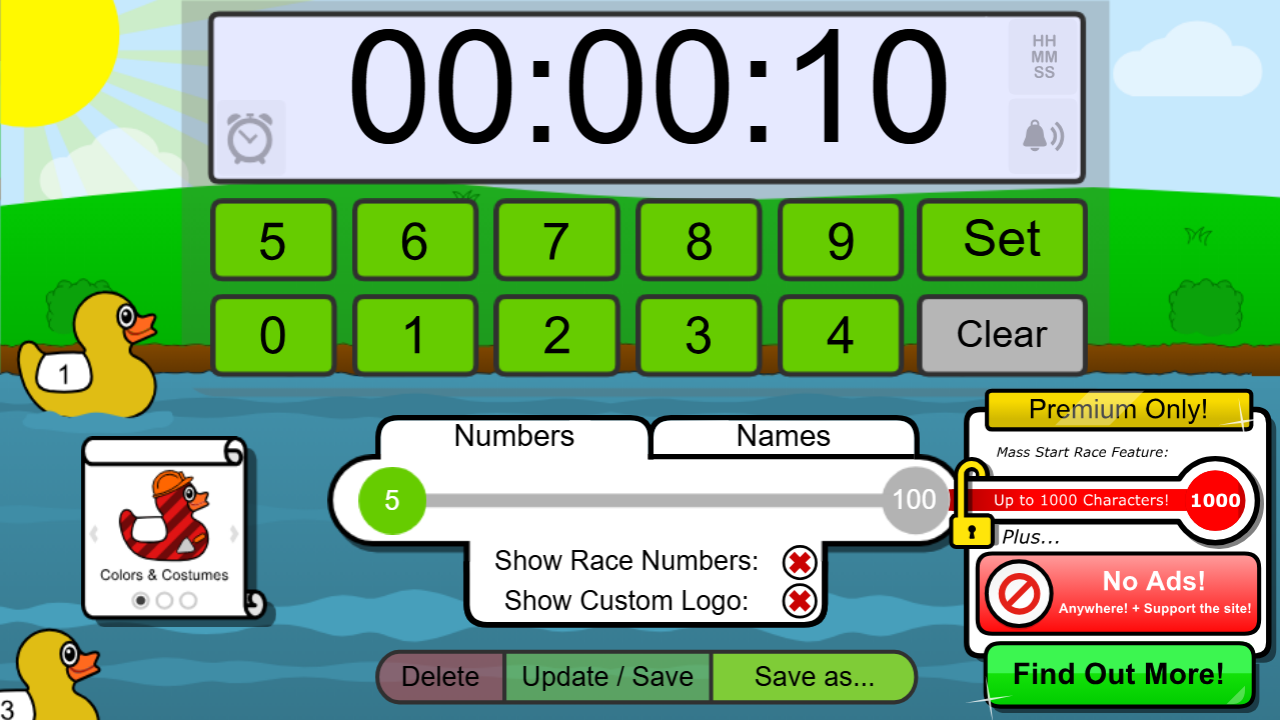
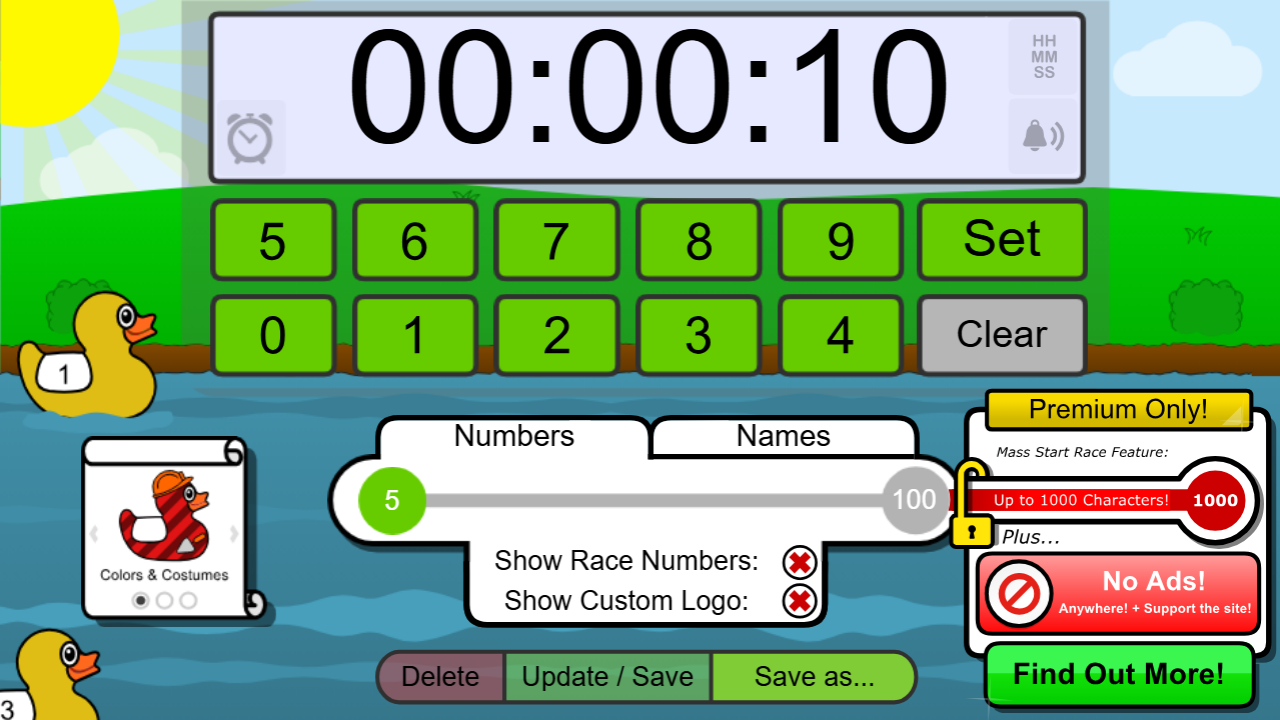
Crash-proof complete listener in main.js and force settings.hide() on Set click so ducks appear on track

diff --git a/assets/js/main.js b/assets/js/main.js
@@ -1422,23 +1422,27 @@ function Main(fromURL)
         {
             isAppAlarmClock=exportRoot.settings.timer.newWay.visible;
             once=false;
-            clock=e.data.clock;
-            timerMenu.showClock(clock);
-            if (isAppAlarmClock)
-            {
-                timeMls=Helper.calculateClock(clock.time,clock.ampm);
+            clock=e.data ? e.data.clock : null;
+            if (clock && clock.time) {
+                try { timerMenu.showClock(clock); } catch(err) {}
+                if (isAppAlarmClock && clock.ampm)
+                {
+                    timeMls=Helper.calculateClock(clock.time,clock.ampm);
+                }
+                else
+                {
+                    timeMls=(e.data && e.data.timerMilliseconds) ? e.data.timerMilliseconds : 10000;
+                }
+            } else {
+                timeMls = (e.data && e.data.timerMilliseconds) ? e.data.timerMilliseconds : 10000;
             }
-            else
-            {
-                timeMls=e.data.timerMilliseconds;
-            }
-            charactersNum=e.data.characterNum;
-            showNumbers=e.data.showNumbers;
-            characterStyle=e.data.characterStyle;
-            timerMenu.changeDisplayType(e.data.display);
-            userLogo.isVisible(e.data.isLogoVisible);
+            charactersNum=(e.data && e.data.characterNum) ? e.data.characterNum : charactersNum;
+            showNumbers=e.data ? e.data.showNumbers : showNumbers;
+            characterStyle=e.data ? e.data.characterStyle : characterStyle;
+            if (e.data && e.data.display) timerMenu.changeDisplayType(e.data.display);
+            if (e.data && typeof e.data.isLogoVisible !== 'undefined') userLogo.isVisible(e.data.isLogoVisible);
             var namesFromServer;
-            if (e.data.list)
+            if (e.data && e.data.list)
             {
                 namesFromServer=e.data.list;
                 coreData=Helper.generateCoreData(namesFromServer);
@@ -1465,6 +1469,7 @@ function Main(fromURL)
             }
             resetGame();
             setCharacterInitialProperties();
+            settings.hide();
         });
         settings.init();
 

diff --git a/js/main.js b/js/main.js
@@ -1422,23 +1422,27 @@ function Main(fromURL)
         {
             isAppAlarmClock=exportRoot.settings.timer.newWay.visible;
             once=false;
-            clock=e.data.clock;
-            timerMenu.showClock(clock);
-            if (isAppAlarmClock)
-            {
-                timeMls=Helper.calculateClock(clock.time,clock.ampm);
+            clock=e.data ? e.data.clock : null;
+            if (clock && clock.time) {
+                try { timerMenu.showClock(clock); } catch(err) {}
+                if (isAppAlarmClock && clock.ampm)
+                {
+                    timeMls=Helper.calculateClock(clock.time,clock.ampm);
+                }
+                else
+                {
+                    timeMls=(e.data && e.data.timerMilliseconds) ? e.data.timerMilliseconds : 10000;
+                }
+            } else {
+                timeMls = (e.data && e.data.timerMilliseconds) ? e.data.timerMilliseconds : 10000;
             }
-            else
-            {
-                timeMls=e.data.timerMilliseconds;
-            }
-            charactersNum=e.data.characterNum;
-            showNumbers=e.data.showNumbers;
-            characterStyle=e.data.characterStyle;
-            timerMenu.changeDisplayType(e.data.display);
-            userLogo.isVisible(e.data.isLogoVisible);
+            charactersNum=(e.data && e.data.characterNum) ? e.data.characterNum : charactersNum;
+            showNumbers=e.data ? e.data.showNumbers : showNumbers;
+            characterStyle=e.data ? e.data.characterStyle : characterStyle;
+            if (e.data && e.data.display) timerMenu.changeDisplayType(e.data.display);
+            if (e.data && typeof e.data.isLogoVisible !== 'undefined') userLogo.isVisible(e.data.isLogoVisible);
             var namesFromServer;
-            if (e.data.list)
+            if (e.data && e.data.list)
             {
                 namesFromServer=e.data.list;
                 coreData=Helper.generateCoreData(namesFromServer);
@@ -1465,6 +1469,7 @@ function Main(fromURL)
             }
             resetGame();
             setCharacterInitialProperties();
+            settings.hide();
         });
         settings.init();
 

diff --git a/public/js/main.js b/public/js/main.js
@@ -1422,23 +1422,27 @@ function Main(fromURL)
         {
             isAppAlarmClock=exportRoot.settings.timer.newWay.visible;
             once=false;
-            clock=e.data.clock;
-            timerMenu.showClock(clock);
-            if (isAppAlarmClock)
-            {
-                timeMls=Helper.calculateClock(clock.time,clock.ampm);
+            clock=e.data ? e.data.clock : null;
+            if (clock && clock.time) {
+                try { timerMenu.showClock(clock); } catch(err) {}
+                if (isAppAlarmClock && clock.ampm)
+                {
+                    timeMls=Helper.calculateClock(clock.time,clock.ampm);
+                }
+                else
+                {
+                    timeMls=(e.data && e.data.timerMilliseconds) ? e.data.timerMilliseconds : 10000;
+                }
+            } else {
+                timeMls = (e.data && e.data.timerMilliseconds) ? e.data.timerMilliseconds : 10000;
             }
-            else
-            {
-                timeMls=e.data.timerMilliseconds;
-            }
-            charactersNum=e.data.characterNum;
-            showNumbers=e.data.showNumbers;
-            characterStyle=e.data.characterStyle;
-            timerMenu.changeDisplayType(e.data.display);
-            userLogo.isVisible(e.data.isLogoVisible);
+            charactersNum=(e.data && e.data.characterNum) ? e.data.characterNum : charactersNum;
+            showNumbers=e.data ? e.data.showNumbers : showNumbers;
+            characterStyle=e.data ? e.data.characterStyle : characterStyle;
+            if (e.data && e.data.display) timerMenu.changeDisplayType(e.data.display);
+            if (e.data && typeof e.data.isLogoVisible !== 'undefined') userLogo.isVisible(e.data.isLogoVisible);
             var namesFromServer;
-            if (e.data.list)
+            if (e.data && e.data.list)
             {
                 namesFromServer=e.data.list;
                 coreData=Helper.generateCoreData(namesFromServer);
@@ -1465,6 +1469,7 @@ function Main(fromURL)
             }
             resetGame();
             setCharacterInitialProperties();
+            settings.hide();
         });
         settings.init();
 

diff --git a/test-auto-start.js b/test-auto-start.js
@@ -1,0 +1,27 @@
+import { chromium } from 'playwright';
+import path from 'path';
+
+(async () => {
+  console.log('🧪 Testing timer bStart click on http://localhost:3000/ ...');
+  const browser = await chromium.launch({ headless: true });
+  const page = await browser.newPage({ viewport: { width: 1280, height: 720 } });
+
+  await page.goto('http://localhost:3000/', { waitUntil: 'networkidle' });
+
+  await page.waitForTimeout(1000);
+
+  // Click Start button on timer
+  await page.evaluate(() => {
+    if (typeof exportRoot !== 'undefined' && exportRoot.timer && exportRoot.timer.bStart) {
+      exportRoot.timer.bStart.dispatchEvent('mousedown');
+    }
+  });
+
+  await page.waitForTimeout(2000);
+
+  const screenshotPath = path.resolve('timer-start-click-screen.png');
+  await page.screenshot({ path: screenshotPath });
+  console.log('Saved screenshot to:', screenshotPath);
+
+  await browser.close();
+})();

diff --git a/test-local.js b/test-local.js
@@ -1,0 +1,21 @@
+import { chromium } from 'playwright';
+import path from 'path';
+
+(async () => {
+  console.log('🧪 Testing local http://localhost:3000/ ...');
+  const browser = await chromium.launch({ headless: true });
+  const page = await browser.newPage({ viewport: { width: 1280, height: 720 } });
+
+  page.on('console', msg => console.log('LOCAL CONSOLE:', msg.type(), msg.text()));
+  page.on('pageerror', err => console.error('LOCAL UNCAUGHT:', err));
+
+  await page.goto('http://localhost:3000/', { waitUntil: 'networkidle' });
+
+  await page.waitForTimeout(3000);
+
+  const screenshotPath = path.resolve('local-screen.png');
+  await page.screenshot({ path: screenshotPath });
+  console.log('Saved screenshot of local page to:', screenshotPath);
+
+  await browser.close();
+})();
